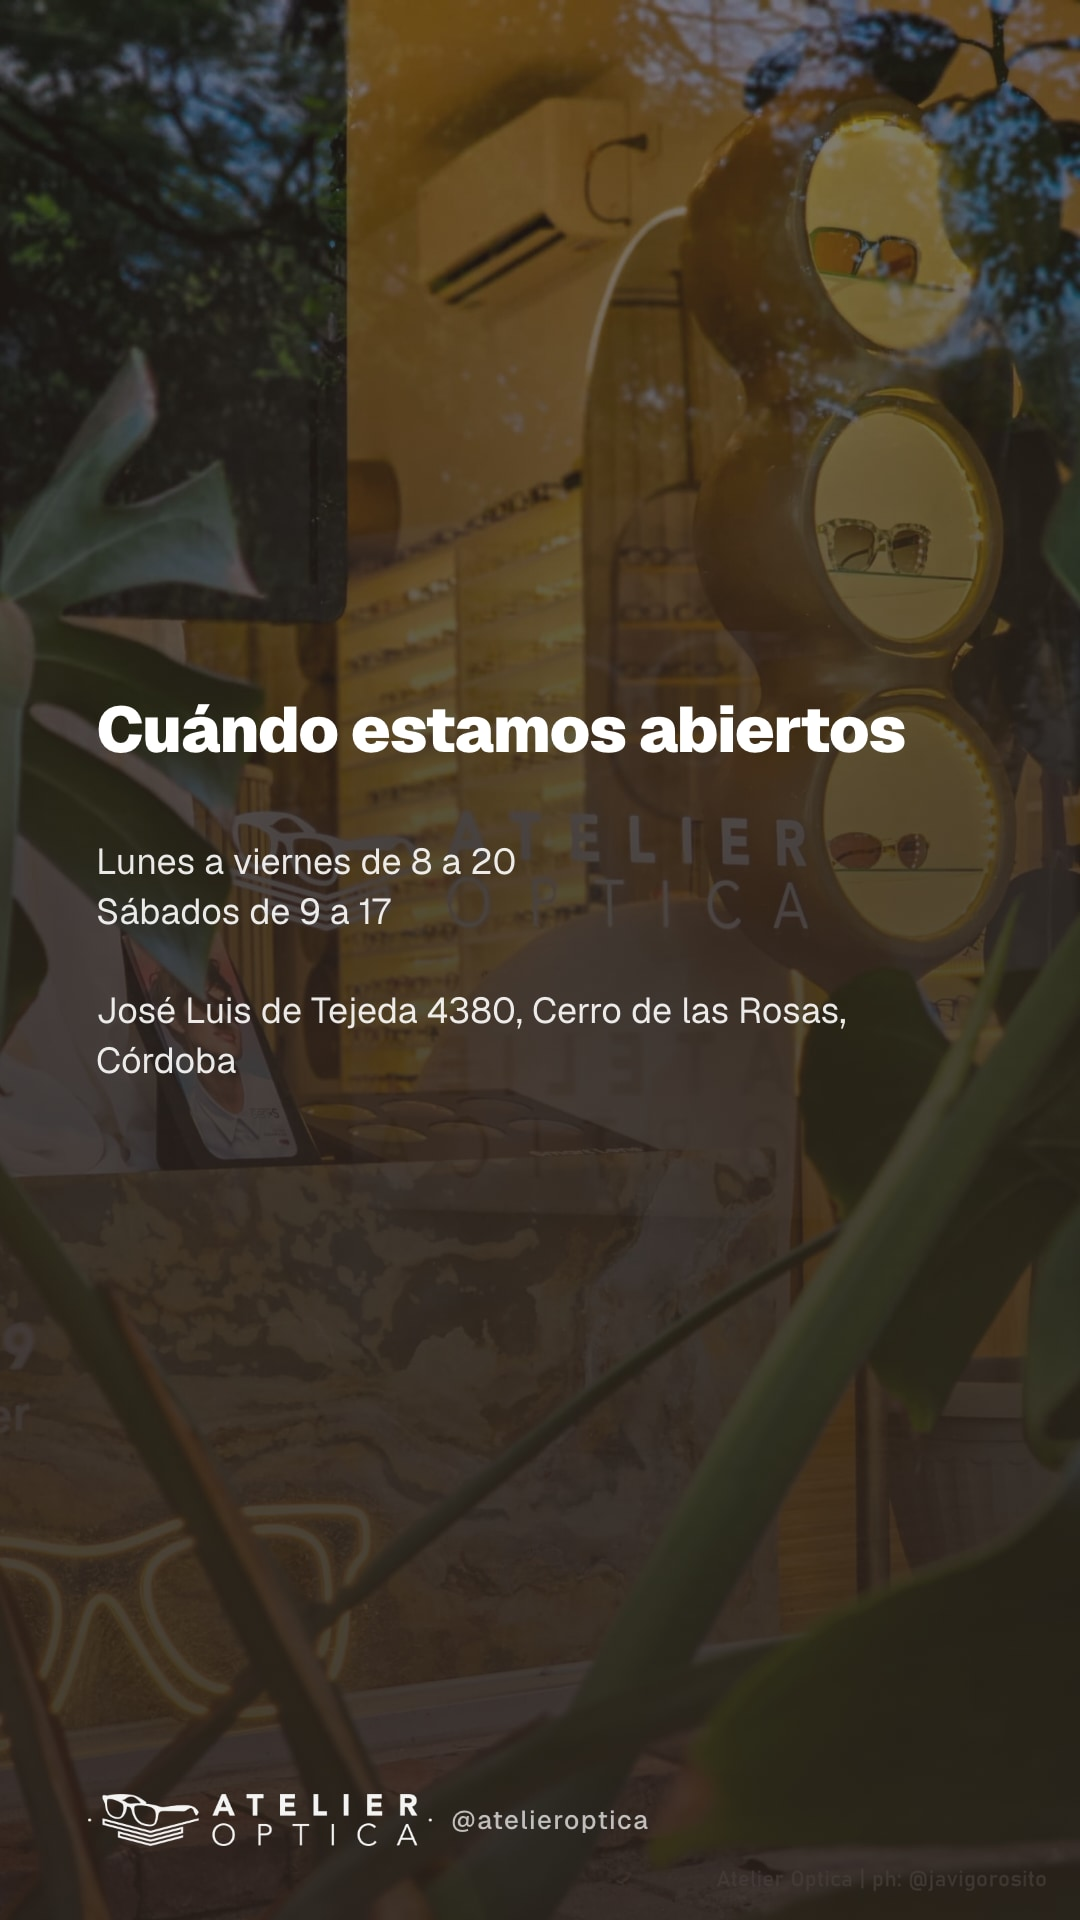
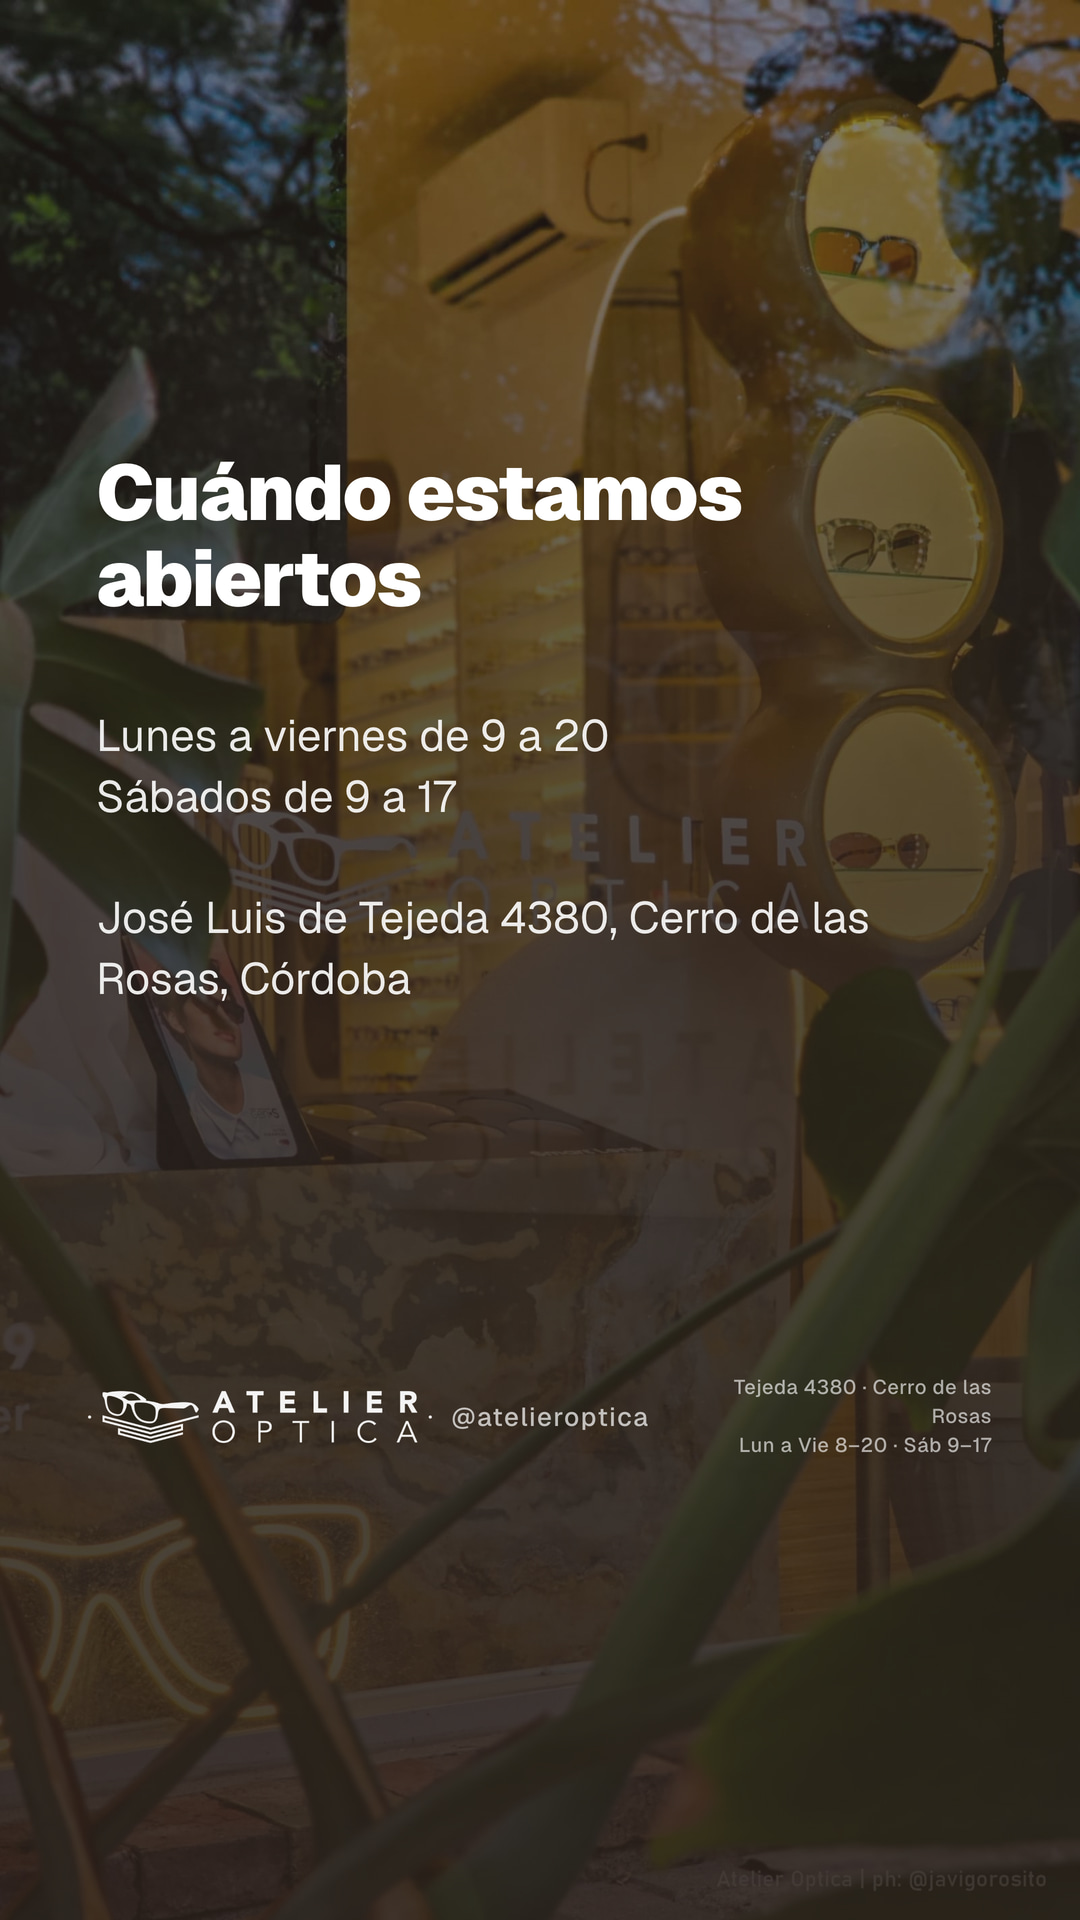
horario real: 9 a 20 L-V (no 8 a 20), sábados sin cambios
El local abre a las 9, no a las 8 — corregido en la fuente única
(business-info.ts + su espejo wa-service/shared/business-info.js) y en todas
las copias sueltas que ya habían quedado desactualizadas: gate de horario
comercial en campania-seguimiento/route.ts (hora < 8 → hora < 9, lógica real,
no solo texto), isBusinessHours() en wa-service (bot en vivo), mensaje de
fuera de horario, quick-reply y prompts del agente, flyer de feriado en
/admin/web, comentario en /admin/ventas, dos placas de Instagram ya
renderizadas (horarios.json regenerada desde la fuente, agenda-tu-medicion.json
a mano) y el check de paridad business-info-paridad.check.mjs (tenía el "8"
hardcodeado en su propio regex de validación).

VENTANA_ANTI_REPETICION_MS del auto-respondedor sube de 40 a 41 horas: con el
cierre sábado 17:00 → lunes 9:00 (40h exactas), una ventana de exactamente 40h
ya no garantiza "como mucho un aviso por período cerrado".

Pendiente, requiere decisión explícita (no se tocó): los templates de WhatsApp
ya aprobados por Meta con "8 a 20" (pedido_listo_v2, pedido_listo_saldo_v2,
promo_12_cuotas_v4, invitacion_local) quedan anotados pero sin editar — Meta
congela el texto aprobado, así que corregir esto en vivo requiere dar de alta
una versión nueva y esperar la aprobación.

diff --git a/src/lib/whatsapp/templates.ts b/src/lib/whatsapp/templates.ts
@@ -46,11 +46,13 @@ export const TEMPLATE_LANGUAGE = 'es_AR';
 const STORE_URL = 'https://atelieroptica.com.ar';
 
 export const WHATSAPP_TEMPLATES = {
-    // HORARIO VIEJO ("9 a 20"): el real es L-V 8 a 20 y sábados 9 a 17
-    // (BUSINESS_INFO.hours). Meta congela el texto aprobado, así que el fix
-    // fue dar de alta la _v2 de abajo — APROBADA el 1/9, notify-ready y
-    // bot.service ya la usan. Esta queda solo como registro histórico de
-    // envíos viejos; no la reutilices para mandar.
+    // HORARIO VIEJO ("9 a 20"): en su momento el real era L-V 8 a 20 y sábados
+    // 9 a 17. Meta congela el texto aprobado, así que el fix fue dar de alta
+    // la _v2 de abajo — APROBADA el 1/9, notify-ready y bot.service ya la
+    // usan. Esta queda solo como registro histórico de envíos viejos; no la
+    // reutilices para mandar. OJO: el 1/9, el mismo día de la aprobación, el
+    // horario real volvió a "9 a 20" (BUSINESS_INFO.hours) — la _v2 quedó
+    // desactualizada también, ver su comentario.
     pedido_listo: {
         name: 'pedido_listo',
         inventario: 'A1',
@@ -59,6 +61,13 @@ export const WHATSAPP_TEMPLATES = {
         params: [{ label: 'nombre', example: 'Julio' }, { label: 'nº de pedido', example: '#A1B2' }],
         buttons: [{ type: 'URL', text: 'Cómo llegar', url: 'https://maps.app.goo.gl/atelieroptica' }],
     },
+    // HORARIO DESACTUALIZADO DE NUEVO (1/9/26): esta plantilla se aprobó HOY
+    // con "8 a 20", y el mismo día el horario real volvió a ser "9 a 20". El
+    // texto de Meta queda congelado tal cual se aprobó — no se edita acá — así
+    // que hasta que se dé de alta y apruebe una _v3, el bot sigue mandando "8
+    // a 20" con este template. No tocar sin decisión explícita de Ishtar: cada
+    // versión nueva es una aprobación de Meta y category UTILITY no tiene costo
+    // por envío, pero sí el tiempo de revisión.
     pedido_listo_v2: {
         name: 'pedido_listo_v2',
         inventario: 'A1',
@@ -78,6 +87,9 @@ export const WHATSAPP_TEMPLATES = {
             { label: 'saldo tarjeta', example: '$ 120.000' }, { label: 'saldo transferencia', example: '$ 110.000' }, { label: 'saldo efectivo', example: '$ 105.000' },
         ],
     },
+    // Mismo caso que pedido_listo_v2: aprobada HOY (1/9) con "8 a 20", el
+    // horario real volvió a "9 a 20" el mismo día. No editar sin decisión
+    // explícita — ver el comentario de pedido_listo_v2.
     pedido_listo_saldo_v2: {
         name: 'pedido_listo_saldo_v2',
         inventario: 'A12',
@@ -170,6 +182,9 @@ export const WHATSAPP_TEMPLATES = {
         body: 'Hola {{1}}, {{2}}! ¿Cómo estás? Vi que te quedaron unos productos en el carrito de la tienda, ¿te surgió alguna duda? Si querés te doy una mano para terminarlo.',
         params: [{ label: 'nombre', example: 'Julio' }, { label: 'saludo según la hora', example: 'buen día' }],
     },
+    // HORARIO: si esta plantilla ya está aprobada en Meta, el texto de abajo
+    // quedó congelado con "8:00 a 20:00" y el real es "9:00 a 20:00" desde el
+    // 1/9/26 — no editar el body sin decisión explícita (ver pedido_listo_v2).
     invitacion_local: {
         name: 'invitacion_local',
         inventario: 'E4 (segundo seguimiento: invitar al local)',
@@ -232,6 +247,9 @@ export const WHATSAPP_TEMPLATES = {
     // "tarjeta" en el medio para que no se lean como un solo paquete.
     // El importe real de la cuota (con su recargo adentro) lo cotiza después
     // el presupuesto, que sale de PricingService.
+    // HORARIO: si ya está aprobada, el body quedó con "8 a 20" y el real es
+    // "9 a 20" desde el 1/9/26 — no editar sin decisión explícita (ver
+    // pedido_listo_v2).
     promo_12_cuotas_v4: {
         name: 'promo_12_cuotas_v4',
         inventario: 'Campaña MP 12 cuotas v4 (sep 2026) — la vigente',

diff --git a/src/lib/business-info.ts b/src/lib/business-info.ts
@@ -26,20 +26,22 @@ export const BUSINESS_INFO = {
   youtubeUrl: "https://www.youtube.com/@AtelierOptica",
   mapsUrl: "https://www.google.com/maps?cid=14830223812501661125",
   entityId: "https://atelieroptica.com.ar/#optica",
-  hours: "Lunes a Viernes de 8:00 a 20:00. Sábados de 9:00 a 17:00",
+  // 1/9/2026 (Ishtar): corrige el horario de apertura de semana, que estaba
+  // mal desde siempre en 8:00 — es 9:00. Sábados no cambia (9 a 17).
+  hours: "Lunes a Viernes de 9:00 a 20:00. Sábados de 9:00 a 17:00",
   /**
    * Mismos horarios que `hours`, con el formato de viñetas que usan los mensajes
    * de WhatsApp al cliente. Existe para que ese bloque no se vuelva a copiar a
    * mano: ya pasó que quedara desactualizado en un lugar y el bot mandara
    * horarios inventados.
    */
-  hoursWhatsAppBlock: "*Horarios:*\n   • Lunes a viernes de 8:00 a 20:00\n   • Sábados de 9:00 a 17:00 hs",
+  hoursWhatsAppBlock: "*Horarios:*\n   • Lunes a viernes de 9:00 a 20:00\n   • Sábados de 9:00 a 17:00 hs",
   /** Mismos horarios que `hours`, en formato schema.org — mantener sincronizados. */
   openingHoursSpecification: [
     {
       "@type": "OpeningHoursSpecification",
       dayOfWeek: ["Monday", "Tuesday", "Wednesday", "Thursday", "Friday"],
-      opens: "08:00",
+      opens: "09:00",
       closes: "20:00",
     },
     {
@@ -53,12 +55,12 @@ export const BUSINESS_INFO = {
    * Franja para AGENDAR UNA CONSULTA GENERAL en el local (probarse armazones,
    * retirar, consultar). Coincide con el horario de atención.
    */
-  appointmentSlots: "de 8:00 a 20:00 (Lunes a Viernes), o de 9:00 a 17:00 (Sábados)",
+  appointmentSlots: "de 9:00 a 20:00 (Lunes a Viernes), o de 9:00 a 17:00 (Sábados)",
   /**
    * TOMA DE GRADUACIÓN (agudeza visual): SOLO en la siesta, de 12 a 16.
    *
    * Regla que dio Ishtar el 31/8/2026. No es lo mismo que `appointmentSlots`:
-   * el local atiende de 8 a 20, pero el examen visual se hace únicamente en
+   * el local atiende de 9 a 20, pero el examen visual se hace únicamente en
    * esa franja. Antes el sistema ofrecía turno para graduación en cualquier
    * horario de atención — o sea que se le podía dar a alguien un turno que
    * después no se le podía cumplir.

diff --git a/wa-service/auto-responder.js b/wa-service/auto-responder.js
@@ -63,9 +63,11 @@ const SENDER_NAME = 'Auto-respondedor';
 /**
  * Cuánto se espera antes de volver a mandarle el aviso al MISMO chat.
  *
- * 40 horas, elegidas para que sea IMPOSIBLE mandar más de uno por período
- * cerrado: el cierre más largo de la semana es sábado 17:00 → lunes 8:00, que
- * son 39 horas. Con una ventana más corta (p. ej. 12 h, el cierre de un día
+ * 41 horas, elegidas para que sea IMPOSIBLE mandar más de uno por período
+ * cerrado: el cierre más largo de la semana es sábado 17:00 → lunes 9:00 (el
+ * local ahora abre a las 9, no a las 8), que son 40 horas exactas — la ventana
+ * tiene que ser ESTRICTAMENTE mayor a eso, no igual, o un caso límite podría
+ * mandar dos. Con una ventana más corta (p. ej. 12 h, el cierre de un día
  * hábil) un cliente que escribe el sábado a la noche y otra vez el domingo a la
  * noche recibía dos avisos idénticos en el mismo fin de semana cerrado.
  *
@@ -75,7 +77,7 @@ const SENDER_NAME = 'Auto-respondedor';
  * escribió dos veces sin que nadie le haya contestado nunca — y a ese repetirle
  * el mismo texto automático no le suma nada.
  */
-const VENTANA_ANTI_REPETICION_MS = 40 * 60 * 60 * 1000;
+const VENTANA_ANTI_REPETICION_MS = 41 * 60 * 60 * 1000;
 
 /**
  * Nombres de remitente que NO son una persona del equipo. Un saliente firmado
@@ -120,7 +122,7 @@ function buildAutoReplyText() {
         'Mientras tanto podés ver los modelos disponibles en atelieroptica.com.ar',
         '',
         '📍 José Luis de Tejeda 4380, Cerro de las Rosas, Córdoba',
-        '🕐 Lunes a viernes de 8 a 20 hs · Sábados de 9 a 17 hs',
+        '🕐 Lunes a viernes de 9 a 20 hs · Sábados de 9 a 17 hs',
         '',
         'Formas de pago:',
         '- 20% de descuento en efectivo',

diff --git a/wa-service/shared/business-info.js b/wa-service/shared/business-info.js
@@ -23,21 +23,21 @@
 const ADDRESS = 'José Luis de Tejeda 4380, Cerro de las Rosas, Córdoba';
 
 /** BUSINESS_INFO.hoursWhatsAppBlock */
-const HOURS_WHATSAPP_BLOCK = '*Horarios:*\n   • Lunes a viernes de 8:00 a 20:00\n   • Sábados de 9:00 a 17:00 hs';
+const HOURS_WHATSAPP_BLOCK = '*Horarios:*\n   • Lunes a viernes de 9:00 a 20:00\n   • Sábados de 9:00 a 17:00 hs';
 
 /**
  * BUSINESS_INFO.appointmentSlots — visita general al local (probarse armazones,
  * retirar, consultar). Coincide con el horario de atención.
  */
 /** BUSINESS_INFO.hours — el horario en una línea, para prosa. */
-const HOURS = 'Lunes a Viernes de 8:00 a 20:00. Sábados de 9:00 a 17:00';
+const HOURS = 'Lunes a Viernes de 9:00 a 20:00. Sábados de 9:00 a 17:00';
 
-const APPOINTMENT_SLOTS = 'de 8:00 a 20:00 (Lunes a Viernes), o de 9:00 a 17:00 (Sábados)';
+const APPOINTMENT_SLOTS = 'de 9:00 a 20:00 (Lunes a Viernes), o de 9:00 a 17:00 (Sábados)';
 
 /**
  * BUSINESS_INFO.examSlots — TOMA DE GRADUACIÓN (agudeza visual): SOLO la siesta.
  *
- * NO es lo mismo que `APPOINTMENT_SLOTS`: el local atiende de 8 a 20, pero el
+ * NO es lo mismo que `APPOINTMENT_SLOTS`: el local atiende de 9 a 20, pero el
  * examen visual se hace únicamente en esta franja. El bot lo necesita porque
  * venía ofreciendo control visual "cuando quieras" (conv-047 del dataset de
  * bot-eval), o sea prometiendo un turno que después no se puede cumplir.

diff --git a/src/components/whatsapp/quick-replies.ts b/src/components/whatsapp/quick-replies.ts
@@ -14,7 +14,7 @@ export const QUICK_REPLIES: QuickReply[] = [
     { label: 'Receta', text: '¿Me podés compartir tu receta óptica para ayudarte mejor?' },
     { label: 'Turno', text: '¿Querés coordinar un turno para una consulta en el local? 📍' },
     { label: 'Dirección', text: '📍 Nos encontrás en José Luis de Tejeda 4380, Cerro de las Rosas, Córdoba.\n\nTe dejo la ubicación para que llegues fácil 👉 https://g.co/kgs/5Jp7D4e' },
-    { label: 'Horario', text: 'Atendemos de Lunes a Viernes de 8 a 20hs. Sábados de 9 a 17hs.\n\n📍 José Luis de Tejeda 4380, Cerro de las Rosas, Córdoba.\n👉 https://g.co/kgs/5Jp7D4e\n\nCuándo te queda cómodo que te esperemos?' },
+    { label: 'Horario', text: 'Atendemos de Lunes a Viernes de 9 a 20hs. Sábados de 9 a 17hs.\n\n📍 José Luis de Tejeda 4380, Cerro de las Rosas, Córdoba.\n👉 https://g.co/kgs/5Jp7D4e\n\nCuándo te queda cómodo que te esperemos?' },
     { label: 'Listo para retirar', text: '🎉 ¡Tu pedido está listo para retirar!' },
     { label: 'Pago pendiente', text: 'Te recuerdo que quedó pendiente el saldo restante. ¿Cuándo te viene bien coordinar el pago?' },
     { label: 'Instagram', text: '¡Te invito a seguirnos en Instagram para ver todas nuestras novedades, promos y modelitos nuevos! 📸✨\n\n👉 https://www.instagram.com/atelieroptica_/\n\n¡Nos encontrás como @atelieroptica_!' },

diff --git a/src/app/admin/ventas/page.tsx b/src/app/admin/ventas/page.tsx
@@ -1753,7 +1753,7 @@ export default function VentasPage() {
                                                                 chatId: `${phone}@c.us`,
                                                                 message: msg,
                                                                 // API oficial, fuera de la ventana de 24 h: plantilla A1 / A12.
-                                                                // Las _v2 llevan el horario real (8 a 20, sábados 9 a 17);
+                                                                // Las _v2 llevan el horario real (9 a 20, sábados 9 a 17);
                                                                 // las v1 decían "9 a 20" y no nombraban el sábado.
                                                                 template: financials.hasBalance
                                                                     ? { name: 'pedido_listo_saldo_v2', bodyParams: [(order.client?.name || 'cliente').split(' ')[0], `#${order.id.slice(-4).toUpperCase()}`, `$ ${financials.remainingCard.toLocaleString('es-AR')}`, `$ ${financials.remainingTransfer.toLocaleString('es-AR')}`, `$ ${financials.remainingCash.toLocaleString('es-AR')}`] }

diff --git a/wa-service/prompts/executivePrompt.js b/wa-service/prompts/executivePrompt.js
@@ -6,7 +6,7 @@ module.exports = `Sos el asistente de Atelier Óptica y atendés EXCLUSIVAMENTE 
 
 <contexto>
   DIRECCIÓN: José Luis de Tejeda 4380, Cerro de las Rosas, Córdoba.
-  HORARIOS: Lunes a Viernes de 8 a 20hs. Sábados de 9 a 17hs.
+  HORARIOS: Lunes a Viernes de 9 a 20hs. Sábados de 9 a 17hs.
   Google Maps: https://g.co/kgs/5Jp7D4e
   Somos la óptica mejor calificada en Google. La PRIMERA vez que pases la dirección o invites al cliente, incluí el link de Google Maps y animá a leer nuestras reseñas (https://www.google.com/search?q=Atelier+Optica+Cordoba). Las veces siguientes no repitas ni el link ni la invitación a las reseñas.
   FOTO DEL LOCAL: cada vez que des la dirección, mandá TAMBIÉN la foto de la fachada para que sepan qué buscar cuando lleguen:

diff --git a/src/app/api/cron/campania-seguimiento/route.ts b/src/app/api/cron/campania-seguimiento/route.ts
@@ -64,11 +64,11 @@ export async function GET(request: NextRequest) {
         return NextResponse.json({ ok: false, motivo: 'followups_enabled=false — campaña pausada' });
     }
 
-    // Horario real del local (BUSINESS_INFO.hours): 8 a 20 en semana. La
+    // Horario real del local (BUSINESS_INFO.hours): 9 a 20 en semana. La
     // campaña hermana (12 cuotas) usa 10-19 por conservadora, pero acá se
     // sigue el horario comercial real para no quedar mandando de más afuera.
     const hora = horaArgentina();
-    if (!dryRun && (hora < 8 || hora >= 20)) {
+    if (!dryRun && (hora < 9 || hora >= 20)) {
         return NextResponse.json({ ok: false, motivo: `fuera de horario comercial (hora ART ${hora})` });
     }
 

diff --git a/wa-service/prompts/salesPrompt.js b/wa-service/prompts/salesPrompt.js
@@ -39,7 +39,7 @@ module.exports = `Sos el asistente de Atelier Óptica y atendés a gente que esc
 
 <contexto>
   DIRECCIÓN: José Luis de Tejeda 4380, Cerro de las Rosas, Córdoba. Referencia: ladrillo visto, al lado de la verdulería, frente a Cremolatti.
-  HORARIOS DEL LOCAL: Lunes a Viernes de 8 a 20hs. Sábados de 9 a 17hs.
+  HORARIOS DEL LOCAL: Lunes a Viernes de 9 a 20hs. Sábados de 9 a 17hs.
   Google Maps: https://g.co/kgs/5Jp7D4e (mandalo UNA sola vez en toda la conversación).
   Somos la óptica mejor calificada en Google.
   FOTO DE LA FACHADA (mandala junto con la dirección, para que sepan qué buscar):

diff --git a/src/components/whatsapp/modals/default-agent-prompt.ts b/src/components/whatsapp/modals/default-agent-prompt.ts
@@ -11,7 +11,7 @@ export const PROMPT_BASE_POR_DEFECTO = `Eres Ishtar, Óptico Contactólogo de At
 
 <contexto>
   DIRECCIÓN: José Luis de Tejeda 4380, Cerro de las Rosas, Córdoba.
-  HORARIOS: Lunes a Viernes de 8 a 20hs. Sábados de 9 a 17hs.
+  HORARIOS: Lunes a Viernes de 9 a 20hs. Sábados de 9 a 17hs.
   Google Maps: https://g.co/kgs/5Jp7D4e (enviá este link UNA SOLA VEZ en toda la conversación, no lo repitas).
   Somos la óptica mejor calificada en Google. Cuando pases la dirección, incluí el link de Maps y animá a leer las reseñas.
   INSTRUCCIÓN DE LA ÓPTICA: [INSTRUCCIONES_CUSTOM]

diff --git a/src/app/admin/web/page.tsx b/src/app/admin/web/page.tsx
@@ -1630,7 +1630,7 @@ export default function WebManagementPage() {
                               setFlyerRequirements([
                                 'Mañana lunes el local permanecerá cerrado.',
                                 'Atención online activa en nuestra web.',
-                                'Reabrimos el martes de 08:00 a 20:00 hs.',
+                                'Reabrimos el martes de 09:00 a 20:00 hs.',
                                 '¡Que disfruten el fin de semana!'
                               ]);
                             }

diff --git a/wa-service/shared/business-hours.js b/wa-service/shared/business-hours.js
@@ -19,8 +19,8 @@ function isBusinessHours(date = new Date()) {
     if (day === 6) {
         return timeDecimal >= 9 && timeDecimal < 17; // Sábado 9:00 - 17:00
     }
-    // Lunes a Viernes: 8:00 - 20:00 (corrido, sin siesta)
-    return timeDecimal >= 8 && timeDecimal < 20;
+    // Lunes a Viernes: 9:00 - 20:00 (corrido, sin siesta)
+    return timeDecimal >= 9 && timeDecimal < 20;
 }
 
 module.exports = { isBusinessHours };
